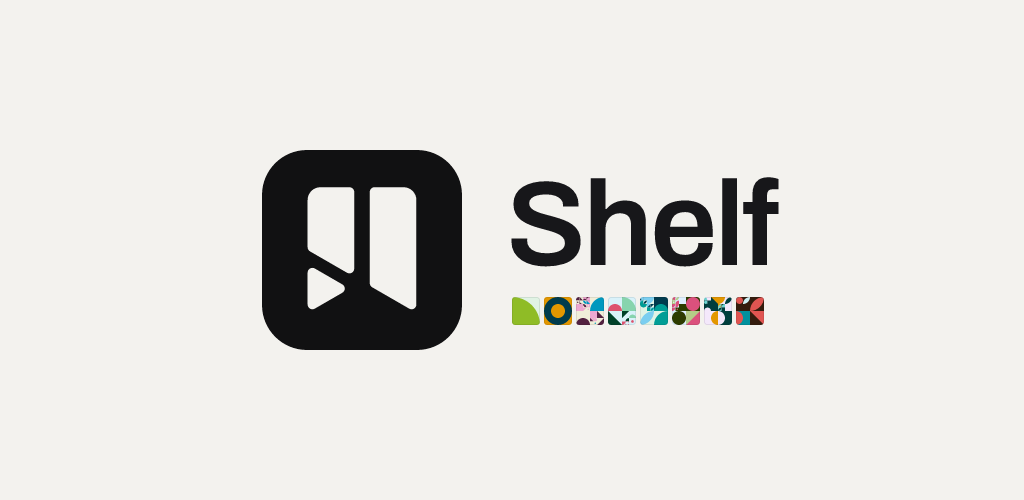
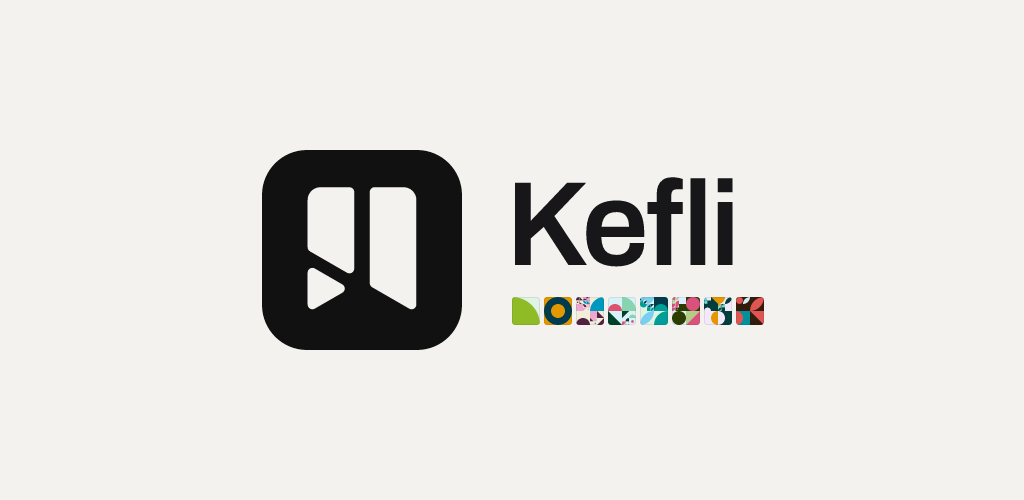
Rename phase 4: the brand cards, the web manifest and the extension spec
The Play feature graphic and the social card are rebuilt with the name
Kefli, and site.webmanifest's name and short_name follow
(docs/specs/10-rename.md, phase 4). Every icon came out of the rebuild
byte-identical, so the app's copies in apps/mobile/assets/brand stand.
The tour drops its note that the cards carried the working name.

The extension spec says Kefli wherever it names the product, and
"library" for the noun, so the extension is built with the new name from
the start; its pairing link takes the kefli:// scheme. Its mention of the
cover of https://shelf.app/ stays: that is cover v1's frozen sample
(R6). The brand README and script point at ~/.cache/kefli-resvg for the
renderer.

The Play listing has no text in the repo yet; it is written with the
listing assets in weeks 6 and 7, under flow decision 95's name.

Changed region(s): [[0.5, 0.33, 0.7812, 0.54]]

diff --git a/docs/design/tour.html b/docs/design/tour.html
@@ -427,7 +427,6 @@ const CHAPTERS = [
     { id: 'store', board: 'store', title: 'Store and social cards',
       see: 'The Play listing and the card shown when someone shares the website.',
       look: ['The store icon, the feature graphic and the social card, each with a strip of covers.'],
-      flag: '“Shelf” on these is the working name. They are rebuilt from the brand script once the name is chosen.',
       try: [],
       dec: [] },
   ] },

diff --git a/docs/specs/05-extension.md b/docs/specs/05-extension.md
@@ -1,18 +1,18 @@
 # Browser extension: Chrome and Firefox
 
-Owner: extension engineer. Version 1.0, September 2026. Codes against `00-contract.md` v1.0 and the sequence in `01-project-plan.md`. Working name Shelf; the name appears only in the manifest, the store listings and the toast.
+Owner: extension engineer. Version 1.0, September 2026. Codes against `00-contract.md` v1.0 and the sequence in `01-project-plan.md`. Named Kefli on 9 October 2026 (flow decision 95); the name appears only in the manifest, the store listings and the toast.
 
 > **Revision note (contract v1.1).** This specification was written against contract v1.0. Contract v1.1 (document 00) takes precedence wherever they differ; apply its section 11 changelog, in particular the move to NIP-78 kind 30078, default public mirrors, AUTH only for reading gift wraps, the 16 KB event ceiling, and the extension device key with inbox blobs. References here to kinds 30979, 979, 978 or 10013 should be read in that light.
 
 ## 1. Goal and scope
 
-The extension takes the page in front of the user and puts it on their phone's shelf. One click on the toolbar button, one keyboard shortcut, or one right-click on a link, and a small toast says "Saved to Shelf" with Undo. There is no popup list, no reader, no account. The extension never holds the user's private key; it holds the user's public key, a relay list and a pairing token, all learned from the phone during a QR handshake, and sends every save as a NIP-59 gift wrap that only the phone can open.
+The extension takes the page in front of the user and puts it in their phone's library. One click on the toolbar button, one keyboard shortcut, or one right-click on a link, and a small toast says "Saved to Kefli" with Undo. There is no popup list, no reader, no account. The extension never holds the user's private key; it holds the user's public key, a relay list and a pairing token, all learned from the phone during a QR handshake, and sends every save as a NIP-59 gift wrap that only the phone can open.
 
 In scope for v1: a Manifest V3 WebExtension in TypeScript, one codebase producing a Chrome build (which also installs on Brave, Edge, Vivaldi and Arc) and a Firefox build; Readability capture on the live DOM; the pairing protocol; per-save gift wrap publish to the operator relay and the user's write relays; an offline queue with retry; Undo; context-menu "Save link"; a keyboard shortcut; an options page with pair, unpair and a read-only relay display; submission to the Chrome Web Store and addons.mozilla.org. Out of scope: Safari (Xcode wrapper and Apple review; v2), Firefox for Android, any reading or listing, any analytics, and any Markdown conversion in the extension, which contract 4.2 and 4.4 put on the phone so that one implementation produces the `text_hash` the audio cache depends on.
 
 ## 2. Architecture
 
-The manifest is generated at build time from one template with two overlays. Shared keys: `manifest_version: 3`, `action` (toolbar button, "Save to Shelf"), `commands` (one shortcut, default `Alt+Shift+S`, remappable in both browsers), `permissions: ["activeTab", "scripting", "storage", "alarms", "contextMenus"]`, no `host_permissions`, `options_ui` opening in a tab, and the default MV3 content security policy with no remote sources. The Chrome overlay sets `background.service_worker` and `minimum_chrome_version: "116"`, the version from which an open WebSocket keeps the worker alive (section 6). The Firefox overlay sets `background.scripts` (an event page, since Firefox does not support `background.service_worker`: https://developer.mozilla.org/en-US/docs/Mozilla/Add-ons/WebExtensions/manifest.json/background), `browser_specific_settings.gecko.id`, `strict_min_version: "121"`, and `gecko.data_collection_permissions: { "required": ["none"] }`, which addons.mozilla.org has required of new submissions since 3 November 2025 (https://blog.mozilla.org/addons/2025/10/23/data-collection-consent-changes-for-new-firefox-extensions/).
+The manifest is generated at build time from one template with two overlays. Shared keys: `manifest_version: 3`, `action` (toolbar button, "Save to Kefli"), `commands` (one shortcut, default `Alt+Shift+S`, remappable in both browsers), `permissions: ["activeTab", "scripting", "storage", "alarms", "contextMenus"]`, no `host_permissions`, `options_ui` opening in a tab, and the default MV3 content security policy with no remote sources. The Chrome overlay sets `background.service_worker` and `minimum_chrome_version: "116"`, the version from which an open WebSocket keeps the worker alive (section 6). The Firefox overlay sets `background.scripts` (an event page, since Firefox does not support `background.service_worker`: https://developer.mozilla.org/en-US/docs/Mozilla/Add-ons/WebExtensions/manifest.json/background), `browser_specific_settings.gecko.id`, `strict_min_version: "121"`, and `gecko.data_collection_permissions: { "required": ["none"] }`, which addons.mozilla.org has required of new submissions since 3 November 2025 (https://blog.mozilla.org/addons/2025/10/23/data-collection-consent-changes-for-new-firefox-extensions/).
 
 Four scripts make up the extension. The background (`bg.ts`) owns all state and all network: it handles the action click, the command, the context-menu click and messages from the other scripts, holds the WebSocket pool and runs the offline queue. The capture content script (`capture.ts`) is injected on demand with `chrome.scripting.executeScript` under `activeTab`, runs Readability against a clone of the live document, gathers metadata and returns one message. The toast content script (`toast.ts`) is injected the same way once the background has a result, renders a fixed-position card inside a closed shadow root so that page selectors cannot touch it, and relays Undo clicks back. A closed shadow root still inherits the page's inherited properties (colour, font, line height, letter spacing, text transform, alignment, direction) and its custom properties, so the toast declares all of these, its tokens and its colour scheme on its own root element inside the shadow root, not on `:host` and never from the page (build note in `docs/design/mockups/extension.html`). The options page (`options.ts`) draws the QR, shows connection state and relays, and offers Unpair. The action has no default popup: on pages where no toast can run, the background opens a small confirmation popup with `action.openPopup()` (Chrome 127+, Firefox) alongside the badge tick (flow decision 59). Both browsers expose `chrome.*` with promises, so the code uses that namespace directly and skips `webextension-polyfill`.
 
@@ -30,7 +30,7 @@ user clicks action / presses shortcut / picks "Save link"
   bg -> tab: executeScript(toast.ts, { state: "saving" })
   bg: publish wrap to operator relay + user write relays over WebSocket
   relay -> bg: OK true                                 [first OK wins]
-  bg -> toast: { state: "saved", wrapId }              -> "Saved to Shelf  Undo"
+  bg -> toast: { state: "saved", wrapId }              -> "Saved to Kefli  Undo"
   toast -> bg: { undo, wrapId }   (within 8 s)         -> bg publishes kind 5 from ephemeralSk
   bg: after 8 s or on toast dismiss, discard ephemeralSk, mark queue entry "sent"
 ```
@@ -44,12 +44,12 @@ The contract has the extension show a QR that the phone scans, and this document
 The extension's side begins when the options page opens with no pairing stored. The background generates an ephemeral secp256k1 key pair `(esk, epk)` with nostr-tools, keeps `esk` in `chrome.storage.session` (memory only), opens a subscription on the operator relay for `{"kinds":[1059], "#p":[epk]}` after answering the NIP-42 challenge with `esk`, and renders a QR whose text is:
 
 ```
-shelf://pair?v=1&k=<epk hex, 64 chars>&r=<percent-encoded wss URL>&e=<unix expiry>&n=<percent-encoded browser label>
+kefli://pair?v=1&k=<epk hex, 64 chars>&r=<percent-encoded wss URL>&e=<unix expiry>&n=<percent-encoded browser label>
 ```
 
-`e` is issue time plus 300 seconds. `n` is a label such as "Chrome on a Linux laptop", built from `navigator.userAgentData` brand and platform, never a hostname or username. The QR is regenerated with a new key every five minutes while the page stays open, with a countdown beneath it and the line "Open Shelf on your phone, go to You, then Connect a browser, and scan this." It is drawn by the Nayuki `qrcodegen` TypeScript port (MIT, no dependencies, https://www.nayuki.io/page/qr-code-generator-library) into an SVG at error-correction level M.
+`e` is issue time plus 300 seconds. `n` is a label such as "Chrome on a Linux laptop", built from `navigator.userAgentData` brand and platform, never a hostname or username. The QR is regenerated with a new key every five minutes while the page stays open, with a countdown beneath it and the line "Open Kefli on your phone, go to You, then Connect a browser, and scan this." It is drawn by the Nayuki `qrcodegen` TypeScript port (MIT, no dependencies, https://www.nayuki.io/page/qr-code-generator-library) into an SVG at error-correction level M.
 
-The phone's side, which the Android and iOS engineers implement from this section, begins in the You tab under "Connect a browser". The phone scans, rejects the payload if `v` is unknown, `e` is past, `k` is not a valid x-only pubkey or `r` is not `wss://`, and shows a sheet: "Connect Chrome on a Linux laptop? It will be able to add pages to your shelf. It can't read anything." with Connect and Cancel. On Connect the phone builds a rumor of kind 978 (pairing acknowledgement, a new kind proposed for the contract) with content:
+The phone's side, which the Android and iOS engineers implement from this section, begins in the You tab under "Connect a browser". The phone scans, rejects the payload if `v` is unknown, `e` is past, `k` is not a valid x-only pubkey or `r` is not `wss://`, and shows a sheet: "Connect Chrome on a Linux laptop? It will be able to add pages to your library. It can't read anything." with Connect and Cancel. On Connect the phone builds a rumor of kind 978 (pairing acknowledgement, a new kind proposed for the contract) with content:
 
 ```
 { "v": 1,
@@ -60,7 +60,7 @@ The phone's side, which the Android and iOS engineers implement from this sectio
   "ack_for": "<epk>" }
 ```
 
-`relays` is the operator relay followed by the user's NIP-65 write relays and any NIP-37 private relays. `token` is a per-browser secret the phone stores under "Connected browsers" with the label and date; every save rumor carries it (section 4), the phone drops kind 979 rumors whose token it does not recognise, and Disconnect on the phone forgets it. Without the token anyone who learns the user's npub could push pages onto their shelf, since gift wraps to a pubkey are open to all senders. The phone seals the rumor with its own key to `epk`, wraps it with a fresh random key, tags the wrap `["p", epk]`, publishes it to the relay from `r`, and shows "Connected".
+`relays` is the operator relay followed by the user's NIP-65 write relays and any NIP-37 private relays. `token` is a per-browser secret the phone stores under "Connected browsers" with the label and date; every save rumor carries it (section 4), the phone drops kind 979 rumors whose token it does not recognise, and Disconnect on the phone forgets it. Without the token anyone who learns the user's npub could push pages into their library, since gift wraps to a pubkey are open to all senders. The phone seals the rumor with its own key to `epk`, wraps it with a fresh random key, tags the wrap `["p", epk]`, publishes it to the relay from `r`, and shows "Connected".
 
 The extension unwraps with `esk`, checks that the seal's signing pubkey equals `pubkey` in the content (so a third party cannot answer on the user's behalf), that `ack_for` equals `epk`, and that the message arrived before `e`. On success it writes `{ v:1, pubkey, relays, token, label, pairedAt }` to `chrome.storage.local`, closes the subscription, discards `esk`, and replaces the QR with "Connected to your phone" and the date. The exchange takes one to three seconds. If the timer runs out the page shows "This code expired" and a "Show a new one" button. If AUTH is refused or the socket fails, the page shows "Can't reach the relay. Check your connection." and retries every ten seconds while visible. Nothing is stored on either side until the acknowledgement lands.
 
@@ -70,13 +70,13 @@ Unpair from the extension side is local: it deletes the pairing record, drains t
 
 Capture runs under `activeTab`, which grants access to the current tab for the duration of the gesture without any host permission. The capture script deep-clones `document`, because Readability mutates the tree it parses and the user must not see their page change, then calls `new Readability(clone, { charThreshold: 250 }).parse()`. Readability is `@mozilla/readability` 0.6.0, Apache-2.0 (https://github.com/mozilla/readability/blob/main/package.json). Metadata comes from the live document in this order: canonical from `<link rel="canonical">`, then `og:url`, then `location.href` without fragment; title from `og:title`, then Readability's title, then `document.title`; byline from Readability, then `<meta name="author">`; site from `og:site_name`, then Readability's `siteName`, then the hostname; hero from `og:image`. The message to the background is `{ ok, url, canonical, title, site, byline, lang, hero, html }`. If Readability returns null (a login wall, an unrendered JavaScript shell, a PDF viewer) the save proceeds with an empty `html` so that the phone fetches the page itself as it would for a share-sheet save, and the toast reads "Saved — your phone will fetch the text".
 
-The cap is applied in the capture script before the message crosses to the background. The script serialises Readability's `content`, measures it with `TextEncoder`, and if it exceeds 512 × 1024 bytes drops trailing top-level children of the content node until it fits, then appends `<p data-shelf-truncated="1">` so that the phone can show "Text was cut short; open the original". Scripts, styles, forms, iframes and `data:` images are stripped before measurement.
+The cap is applied in the capture script before the message crosses to the background. The script serialises Readability's `content`, measures it with `TextEncoder`, and if it exceeds 512 × 1024 bytes drops trailing top-level children of the content node until it fits, then appends `<p data-kefli-truncated="1">` so that the phone can show "Text was cut short; open the original". Scripts, styles, forms, iframes and `data:` images are stripped before measurement.
 
 The wrap is built in the background with nostr-tools 2.25.x (Unlicense; https://jsr.io/@nostr/tools/doc), whose `nip59` module provides `createRumor`, `createSeal` and `createWrap`. The rumor is kind 979, `created_at` the capture time, no tags, content the JSON from contract 4.4 plus two proposed fields: `"token"` from the pairing record and `"truncated": true` when the cap fired. The seal is kind 13, signed by a fresh random key `sk1`, its content NIP-44 v2 ciphertext under the conversation key of `sk1` and the user's pubkey, its `created_at` tweaked backwards by up to two days as NIP-59 recommends (https://github.com/nostr-protocol/nips/blob/master/59.md). The wrap is kind 1059 signed by a second fresh key `sk2`, tagged `["p", userPubkey]`, `created_at` tweaked the same way. Nothing in the wrap identifies the extension, the browser or the URL. `sk1` is discarded after sealing; `sk2` is kept for eight seconds in `chrome.storage.session` for Undo.
 
 Publish opens one WebSocket per relay from the pairing record, answers an AUTH challenge with `sk2` (the pubkey the relay sees as the writer), sends `["EVENT", wrap]` and waits for `["OK", id, true]`. Connections are held for 60 seconds after the last message so consecutive saves reuse them. The operator relay's OK flips the toast to "Saved"; the user's own relays are best-effort. If no relay accepts within ten seconds the entry stays pending and the queue takes over.
 
-The toast is the house inverted toast (flow decision 57): a small card 336 pixels wide (never wider than the viewport less 32), radius 14, 16 pixels in from the bottom right of the viewport, set in system-ui at 15/1.45. It takes the opposite token scheme to the page's: its surface is the page scheme's text colour, its text the page scheme's background and its shadow the page scheme's float, and every role inside it (muted, success, error, the fill, the focus ring) comes from the flipped set. The scheme is read from `prefers-color-scheme` on the toast's own root, never from the page. Its leading slot holds the saved page's cover, 40 pixels at radius 8: cover v1's SVG drawn from the save's d-tag hash, which the background sends with the result, inlined in the shadow root with `ShelfCover.css` and hidden from screen readers, so the toast needs no network and no image. The cover draws itself in once while Shelf saves (each shape over 520 ms, 34 ms apart, or already drawn under reduced motion). The same cover element is kept when "Saving…" becomes "Saved", so the drawing isn't restarted, and a small mark lands on its corner with the last shape: a tick once it is saved, the offline mark while it waits to send, the alert mark when it couldn't send. A removed or refused save shows a plain tile the same size instead, since there is no save to show. The 2-pixel countdown along the bottom edge runs in the article's ink, `ShelfCover.lineInk(hash, toast surface, toast text)` for 3:1 on the toast, or in the toast's text colour when there is no cover. The card is a group labelled Shelf, and what it says is announced through one persistent region with `role="status"` and `aria-live="polite"`, created once, whose text alone changes. It shows "Saving…" until the first OK, then "Saved to Shelf" with Undo (Open in app is dropped, flow decision 9), and dismisses after eight seconds, paused on hover or on focus the user gives it, or on Escape or ✕. It never takes focus on its own: pressing the shortcut again while it shows moves focus to Undo, and Escape, ✕ or Tab past its last button returns focus to where it was (flow decision 58). On pages where a content script cannot run (`chrome://`, `about:`, the Chrome Web Store, the built-in PDF viewer, Firefox reader view) the save is URL-only, the action badge shows a tick for four seconds, and on Chrome 127+ and Firefox a small popup under the toolbar button confirms the save with Undo; older Chrome shows the tick only (flow decision 59). Otherwise the badge counts saves queued offline, in a neutral grey (flow decision 30); saves that couldn't send are listed on the options page. Wherever the browser shows Shelf (the toolbar button, the right-click menu, the options page's tab and the options logo), it shows the app icon frozen under flow decision 70: C·L·063 with the paper mark, kept as static artwork in `shared/brand/src`, with its own tuned drawings for 16 and 32 pixels. It replaces the board's provisional icon (the cover of `https://shelf.app/`, decision 67) that the mockup was first drawn with.
+The toast is the house inverted toast (flow decision 57): a small card 336 pixels wide (never wider than the viewport less 32), radius 14, 16 pixels in from the bottom right of the viewport, set in system-ui at 15/1.45. It takes the opposite token scheme to the page's: its surface is the page scheme's text colour, its text the page scheme's background and its shadow the page scheme's float, and every role inside it (muted, success, error, the fill, the focus ring) comes from the flipped set. The scheme is read from `prefers-color-scheme` on the toast's own root, never from the page. Its leading slot holds the saved page's cover, 40 pixels at radius 8: cover v1's SVG drawn from the save's d-tag hash, which the background sends with the result, inlined in the shadow root with `ShelfCover.css` and hidden from screen readers, so the toast needs no network and no image. The cover draws itself in once while Kefli saves (each shape over 520 ms, 34 ms apart, or already drawn under reduced motion). The same cover element is kept when "Saving…" becomes "Saved", so the drawing isn't restarted, and a small mark lands on its corner with the last shape: a tick once it is saved, the offline mark while it waits to send, the alert mark when it couldn't send. A removed or refused save shows a plain tile the same size instead, since there is no save to show. The 2-pixel countdown along the bottom edge runs in the article's ink, `ShelfCover.lineInk(hash, toast surface, toast text)` for 3:1 on the toast, or in the toast's text colour when there is no cover. The card is a group labelled Kefli, and what it says is announced through one persistent region with `role="status"` and `aria-live="polite"`, created once, whose text alone changes. It shows "Saving…" until the first OK, then "Saved to Kefli" with Undo (Open in app is dropped, flow decision 9), and dismisses after eight seconds, paused on hover or on focus the user gives it, or on Escape or ✕. It never takes focus on its own: pressing the shortcut again while it shows moves focus to Undo, and Escape, ✕ or Tab past its last button returns focus to where it was (flow decision 58). On pages where a content script cannot run (`chrome://`, `about:`, the Chrome Web Store, the built-in PDF viewer, Firefox reader view) the save is URL-only, the action badge shows a tick for four seconds, and on Chrome 127+ and Firefox a small popup under the toolbar button confirms the save with Undo; older Chrome shows the tick only (flow decision 59). Otherwise the badge counts saves queued offline, in a neutral grey (flow decision 30); saves that couldn't send are listed on the options page. Wherever the browser shows Kefli (the toolbar button, the right-click menu, the options page's tab and the options logo), it shows the app icon frozen under flow decision 70: C·L·063 with the paper mark, kept as static artwork in `shared/brand/src`, with its own tuned drawings for 16 and 32 pixels. It replaces the board's provisional icon (the cover of `https://shelf.app/`, decision 67) that the mockup was first drawn with.
 
 Undo publishes a NIP-09 kind 5 signed by `sk2` with `["e", wrapId]` and `["k", "1059"]` to every relay the wrap reached. This is valid because NIP-09 requires the deletion to come from the event's author, and the wrap's author is `sk2`; the operator relay accepts kind 5 from anyone (contract section 3). If the phone was awake and already unwrapped the message, the item exists there and the deletion only removes the wrap, so the options page carries one honest line: "If your phone had already picked the page up, remove it there." A rumor-level unsave is v2.
 
@@ -100,9 +100,9 @@ Brave and Edge run the Chrome package unmodified. Brave's Shields on the aggress
 
 The extension stores, in `chrome.storage.local`: the pairing record (user pubkey, relay list, token, label, date) and the queue of encrypted wraps. In `chrome.storage.session`: the pairing ephemeral secret while a QR is showing, and each save's `sk2` for eight seconds. Nothing goes to `storage.sync`. No URL, title or article text is persisted in plaintext; the only plaintext exists inside the capture message in memory. The extension makes no HTTP request to any server; its network traffic is WebSocket frames to the paired relays and the user-initiated Open in app tab.
 
-Permissions and why each is needed: `activeTab` grants access to the current tab only on the user's gesture, which is exactly the scope of a save and avoids `<all_urls>`, the largest cause of slow Web Store review (https://developer.chrome.com/docs/webstore/review-process). `scripting` is required to inject the capture and toast scripts under MV3. `storage` holds the pairing and the queue. `alarms` retries the queue after the worker has been terminated. `contextMenus` provides "Save link to Shelf". No `tabs`, `notifications`, `cookies`, `webRequest`, `unlimitedStorage` or host permissions are requested.
+Permissions and why each is needed: `activeTab` grants access to the current tab only on the user's gesture, which is exactly the scope of a save and avoids `<all_urls>`, the largest cause of slow Web Store review (https://developer.chrome.com/docs/webstore/review-process). `scripting` is required to inject the capture and toast scripts under MV3. `storage` holds the pairing and the queue. `alarms` retries the queue after the worker has been terminated. `contextMenus` provides "Save link to Kefli". No `tabs`, `notifications`, `cookies`, `webRequest`, `unlimitedStorage` or host permissions are requested.
 
-If the extension is compromised, by a malicious update, a supply-chain injection or a compromised profile, the attacker learns the user's public key and relay list (public anyway), the pairing token, and the content of any page saved from then on, since capture sees plaintext. The attacker can push arbitrary pages to the shelf until the user disconnects that browser on the phone, and can delete queued wraps. The attacker cannot read any existing save, decrypt any kind 30979 or earlier wrap, sign as the user, delete the user's items, or reach the audio API, because all of that needs the private key the extension never has. The build is reproducible from a tagged commit with a lockfile, packages are pinned by integrity hash, the content security policy forbids remote code, and each store listing links the source repository and release commit.
+If the extension is compromised, by a malicious update, a supply-chain injection or a compromised profile, the attacker learns the user's public key and relay list (public anyway), the pairing token, and the content of any page saved from then on, since capture sees plaintext. The attacker can push arbitrary pages to the library until the user disconnects that browser on the phone, and can delete queued wraps. The attacker cannot read any existing save, decrypt any kind 30979 or earlier wrap, sign as the user, delete the user's items, or reach the audio API, because all of that needs the private key the extension never has. The build is reproducible from a tagged commit with a lockfile, packages are pinned by integrity hash, the content security policy forbids remote code, and each store listing links the source repository and release commit.
 
 From the relay's point of view a wrap reveals the recipient pubkey, a time smeared over two days, and a size, so the operator can count saves per user roughly and guess article length; NIP-44's padding hides size differences below 64 KB.
 
@@ -133,7 +133,7 @@ The manual matrix is run before each gate and recorded as a checklist.
 | Disconnect on phone; subsequent save ignored | ✓ | ✓ | — | — |
 | 2 MB article; cap fires; truncated marker shown on phone | ✓ | ✓ | — | — |
 | Dark and light browser theme; toast readable | ✓ | ✓ | ✓ | ✓ |
-| Screen reader announces "Saved to Shelf" | ✓ | ✓ | — | — |
+| Screen reader announces "Saved to Kefli" | ✓ | ✓ | — | — |
 
 ## 9. Timeline against master plan weeks 3–4
 
@@ -185,7 +185,7 @@ Addons.mozilla.org requires a Mozilla account, the same icon and screenshots, th
 
 Privacy policy text, to be hosted at `https://<domain>/extension-privacy`:
 
-"The Shelf browser extension saves web pages to the Shelf app on your phone. When you click Save, the extension reads the page you are looking at, extracts the article text and its title, author and address, encrypts it so that only your phone can read it, and sends it to the relay servers you connected through your phone. The extension stores on your computer: the public identifier of your phone, the list of relay servers, a pairing token, and any saves waiting to be sent while you are offline. All waiting saves are stored encrypted. The extension does not store your browsing history, does not run on pages until you click Save, does not use cookies, does not contain analytics or crash reporting, and does not send anything to us or anyone else except the encrypted save to your relays. Removing the extension deletes everything it stored. Disconnecting the browser in the Shelf app on your phone stops it from adding pages to your shelf. Questions: <email>."
+"The Kefli browser extension saves web pages to the Kefli app on your phone. When you click Save, the extension reads the page you are looking at, extracts the article text and its title, author and address, encrypts it so that only your phone can read it, and sends it to the relay servers you connected through your phone. The extension stores on your computer: the public identifier of your phone, the list of relay servers, a pairing token, and any saves waiting to be sent while you are offline. All waiting saves are stored encrypted. The extension does not store your browsing history, does not run on pages until you click Save, does not use cookies, does not contain analytics or crash reporting, and does not send anything to us or anyone else except the encrypted save to your relays. Removing the extension deletes everything it stored. Disconnecting the browser in the Kefli app on your phone stops it from adding pages to your library. Questions: <email>."
 
 ## 13. Risks
 

diff --git a/shared/brand/README.md b/shared/brand/README.md
@@ -1,6 +1,6 @@
-# Shelf brand assets
+# Kefli brand assets
 
-**The app icon is D, "split and play"** (flow decision 94, chosen by Richard on 9 October 2026, replacing decisions 70 and 72). Shelf's bookmark in paper (#F3F2EE) on graphite (#111112, the dark theme's background), cut twice with nothing stamped on:
+**The app icon is D, "split and play"** (flow decision 94, chosen by Richard on 9 October 2026, replacing decisions 70 and 72). Kefli's bookmark in paper (#F3F2EE) on graphite (#111112, the dark theme's background), cut twice with nothing stamped on:
 
 - a **slot** down the centre line, 1/7 of the bookmark's width, makes the two halves a pause;
 - a **diagonal** that carries the notch's right edge on across the left half, 0.8 of the slot's width, makes the left tail a play pointing into the gap.
@@ -45,8 +45,8 @@ Every cut is drawn on its own pixel grid: straight edges on whole pixels, cut co
 `build-icons.cjs` derives every size and format into `out/`. Run it after any change to `src/`, with `@resvg/resvg-js@2` on `NODE_PATH`:
 
 ```
-npm install --prefix ~/.cache/shelf-resvg @resvg/resvg-js@2     # once, anywhere outside the repo
-NODE_PATH=~/.cache/shelf-resvg/node_modules node shared/brand/build-icons.cjs
+npm install --prefix ~/.cache/kefli-resvg @resvg/resvg-js@2     # once, anywhere outside the repo
+NODE_PATH=~/.cache/kefli-resvg/node_modules node shared/brand/build-icons.cjs
 ```
 
 It reads `shared/cover/cover-v1.js` only for the strip of covers on the OG card and the feature graphic, and `shared/fonts/out` for the name and tagline on those cards, which are set in Archivo so they come out the same on any machine. Besides the layer checks above, every run checks that the mark stays inside Android's 66 dp safe circle (it reaches 28.3 dp) and the maskable icon's 40% circle (32.9%), that the two launch screens are one drawing, that the feature graphic is opaque 24-bit RGB, and that every PNG has its expected size. Sizes up to 48 px are rendered at 8× and box-averaged, so the diagonals rasterise evenly.
@@ -68,7 +68,7 @@ It reads `shared/cover/cover-v1.js` only for the strip of covers on the OG card 
 | `out/web/favicon.svg`, `favicon.ico` (16/32/48), `apple-touch-icon.png`, `icon-192.png`, `icon-512.png`, `maskable-512.png`, `site.webmanifest` | Website. `favicon.svg` is the 16 px cut; the ICO carries the 16, 32 and 48 px cuts. The manifest's `theme_color` is ink (#17171A) and its `background_color` paper (#F3F2EE), and it fixes `id`, `start_url` and `scope` at `/` so installs keep one identity |
 | `out/web/og-card.png` (1200 × 630) | Social sharing card: paper ground, the icon tile, the name in ink, the tagline in the muted grey (#5C5B56) and a short strip of eight covers under it |
 
-**The cards.** The strip is real cover v1 output at depth 3, the Fingerprint board's eight sample articles (sha256 of each normalised URL, as `shared/cover/fixtures.json` records them), drawn at build time; if cover v1 changes before it ships, the strip changes with it and the icon doesn't. "Shelf" is the working name: regenerate both cards when the name is final.
+**The cards.** The strip is real cover v1 output at depth 3, the Fingerprint board's eight sample articles (sha256 of each normalised URL, as `shared/cover/fixtures.json` records them), drawn at build time; if cover v1 changes before it ships, the strip changes with it and the icon doesn't. Both cards carry the product's name, Kefli (flow decision 95).
 
 ## Wiring notes for the mobile build
 
@@ -76,4 +76,4 @@ It reads `shared/cover/cover-v1.js` only for the strip of covers on the OG card 
 - **Splash:** `apps/mobile/app.json` configures the expo-splash-screen plugin: `splash-icon.png` on paper, #F3F2EE, and in its `dark` block `splash-icon-dark.png` on the dark theme's background, #111112, at an `imageWidth` of 200 dp, from copies in `apps/mobile/assets/brand`. The two images have the same footprint, so the mark sits in the same place in either theme; Android picks the dark pair from the phone's dark theme before the app has run, and the app follows the same setting (flow decision 16). The splash hides when the app is ready, the plugin's default. It is baked into the native project at prebuild, so copy the two PNGs again after a rebuild and make a new development build. At 200 dp the mark reaches about 79 dp from the centre; up to about 244 dp keeps it inside Android 12's 192 dp icon circle.
 - **Media notification icon:** `apps/mobile/plugins/with-kefli-notification.js` copies `out/android/kefli_notification.xml` into the app's drawables at prebuild, and kefli-voice's service sets it on media3's notification provider by name, so a rebuild of the brand files reaches the app at the next prebuild.
 
-The in-app interface icons are Lucide at 1.75 stroke, plus Shelf's own skip ±15 pair and speed-read icon in `docs/design/icons/app/` (decisions 62 and 65).
+The in-app interface icons are Lucide at 1.75 stroke, plus Kefli's own skip ±15 pair and speed-read icon in `docs/design/icons/app/` (decisions 62 and 65).
